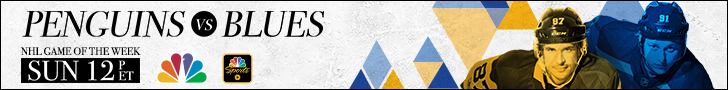
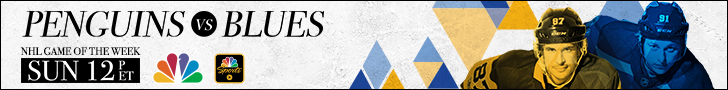
updates

diff --git a/021118_PIT-STL/html_css/728x90/style.css b/021118_PIT-STL/html_css/728x90/style.css
@@ -181,8 +181,8 @@ body{
 
 #network{
 	position: absolute;
-	left: 156px;
-	top: 48px;
+	left: 149px;
+	top: 49px;
 	width: 248px;
 	height: 87px;
 	background: url(images/network.png) no-repeat;
